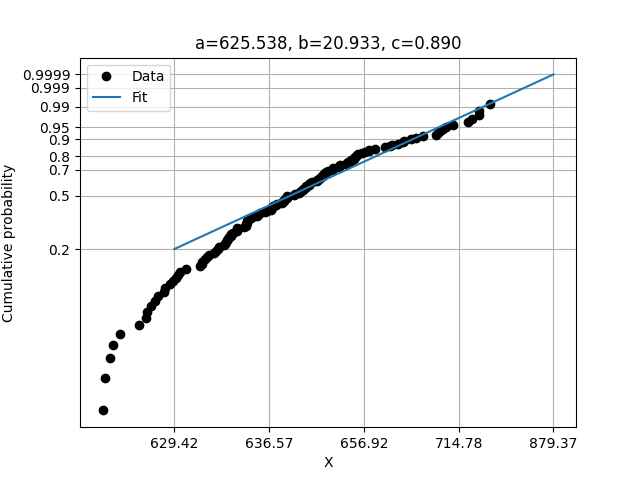
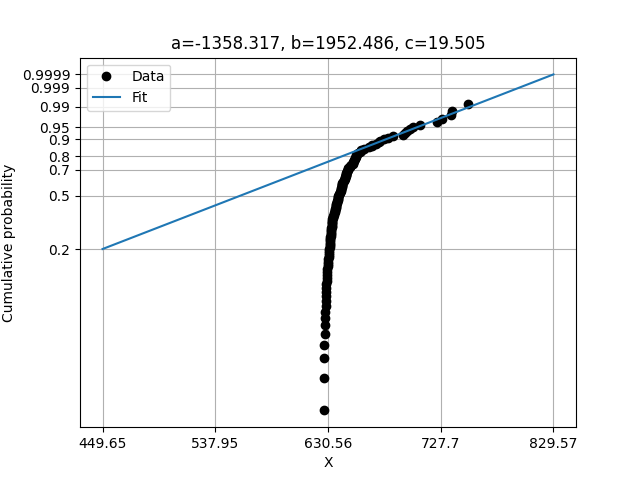
Tail fitting with least squares now uses a `threshold` parameter defined as a quantile in the empirical cumulative distribution function.

diff --git a/qats/stats/weibull.py b/qats/stats/weibull.py
@@ -673,7 +673,9 @@ def lse(x, threshold: float = None):
     x : array_like
         sample data
     threshold : float, optional
-        Fit distribution to data points above this threshold
+        Fit distribution to data points above this threshold. The threshold is defined as value <0, 1> in the
+        empirical CDF. So with threshold=0.87 the distribution is fitted to the values exceeding the 0.87-quantile of
+        the empirical cumulative distribution function.
 
     Returns
     -------
@@ -684,13 +686,12 @@ def lse(x, threshold: float = None):
     -----
     Uses what are known as (approximate) mean rank estimates for the empirical cdf.
     """
-    x = np.sort(x)
-    weights = np.ones(np.shape(x))    # by default include all data points
+    x = np.sort(x)                          # sorted dataset
+    f = empirical_cdf(x.size, kind='mean')  # mean rank empirical cdf according to Weibull [1]
+    weights = np.ones(np.shape(x))          # by default include all data points
     if threshold is not None:
         # exclude data points below threshold (fit only to the tail)
-        weights[x < threshold] = 0.
-
-    f = empirical_cdf(x.size, kind='mean')  # mean rank empirical cdf according to Weibull [1]
+        weights[f < threshold] = 0.
 
     # define error function
     # v: distribution parameters

diff --git a/docs/source/examples/tail_fitting.py b/docs/source/examples/tail_fitting.py
@@ -14,8 +14,8 @@ ts = db.get(name="mooring line 4")
 # fetch peak sample
 x = ts.maxima()
 
-# fit distribution to the largest 1% values
-a, b, c = lse(x, threshold=0.99*max(x))
+# fit distribution to the values exceeding the 0.87-quantile of the empirical cumulative distribution function
+a, b, c = lse(x, threshold=0.87)
 
 # plot sample and fitted distribution on Weibull scales
 plot_fit(x, (a, b, c))
